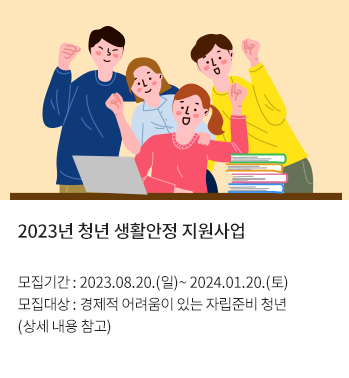
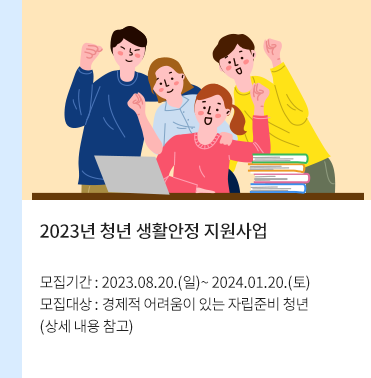
.

diff --git a/html/wz/wz230926.html b/html/wz/wz230926.html
@@ -82,7 +82,7 @@
                     </tbody>
                   </table>
                   <!-- 메인 컨텐츠 -->
-                  <table align="center" border="0" cellpadding="0" cellspacing="0" width="800">
+                  <table align="center" border="0" cellpadding="0" cellspacing="0" width="800" style="max-width: 800px;width: 100%">
                     <tbody>
                       <tr>
                         <td>
@@ -91,8 +91,8 @@
                       </tr>
                       <tr>
                         <td>
-                          <a href="https://www.jobaba.net/eventInfo/eventRLInfo.do" target="_blank" style="text-decoration: none;">
-                            <img src="https://cdn.jsdelivr.net/gh/chaebonggi/jobaba2023/html/wz/images/wz285/wz_285_11.jpg" alt="잡아바 추석 행운 룰렛" width="800" height="712" style="display: block;">
+                          <a href="https://www.jobaba.net/sprtPlcy/info/view2020.do?seq=10272" target="_blank" style="text-decoration: none;">
+                            <img src="https://aldo814.github.io/jobaba/html/wz/images/230926/img01.png" alt="경기청년 역량강화 기회 지원 사업" width="800" height="712" style="display: block;width: 100%">
                           </a>
                         </td>
                       </tr>
@@ -103,7 +103,7 @@
                     <tbody>
                       <tr>
                         <td>
-                          <img src="https://cdn.jsdelivr.net/gh/chaebonggi/jobaba2023/html/wz/images/wz277/wz_277_03.png" alt="weekly hot!" width="800" height="50" style="display: block;">
+                          <img src="https://cdn.jsdelivr.net/gh/chaebonggi/jobaba2023/html/wz/images/wz277/wz_277_03.png" alt="weekly hot!" width="800" height="50" style="display: block;width: 100%;">
                         </td>
                       </tr>
                       <tr>
@@ -116,13 +116,13 @@
                                       <tbody>
                                         <tr>
                                           <td>
-                                            <a href="https://www.jobaba.net/sprtPlcy/info/view2020.do?seq=11415" target="_blank">
-                                              <img src="https://cdn.jsdelivr.net/gh/chaebonggi/jobaba2023/html/wz/images/wz285/wz_285_02.jpg" alt="「2023년 경기도형 대학생 취업브리지」 현장실습 참여자 모집 공고" width="360" height="378" style="display: block;">
+                                            <a href="https://www.jobaba.net/sprtPlcy/info/view2020.do?seq=11464" target="_blank">
+                                              <img src="https://aldo814.github.io/jobaba/html/wz/images/230926/img02.png" alt="2023년 경기북부 여성취업박람회 " width="360" height="378" style="display: block;">
                                             </a>
                                           </td>
                                           <td>
-                                            <a href="https://apply.jobaba.net/bsns/bsnsDetailView.do?bsnsSeq=2595" target="_blank">
-                                              <img src="https://cdn.jsdelivr.net/gh/chaebonggi/jobaba2023/html/wz/images/wz285/wz_285_03.jpg" alt="「잡아바 러닝센터 인증챌린지 3기 모집" width="360" height="378" style="display: block;">
+                                            <a href="https://www.jobaba.net/sprtPlcy/info/view2020.do?seq=11205" target="_blank">
+                                              <img src="https://aldo814.github.io/jobaba/html/wz/images/230926/img03.png" alt="2023년 청년 생활안정 지원사업" width="360" height="378" style="display: block;">
                                             </a>
                                           </td>
                                         </tr>
@@ -139,13 +139,13 @@
                                     <tbody>
                                       <tr>
                                         <td>
-                                          <a href="https://www.jobaba.net/sprtPlcy/info/view2020.do?seq=11408" target="_blank">
-                                            <img src="https://cdn.jsdelivr.net/gh/chaebonggi/jobaba2023/html/wz/images/wz285/wz_285_04.jpg" alt="2023년 여성전문기술교육 데이터라벨러 전문가 양성과정 교육생 모집" width="360" height="378" style="display: block;">
+                                          <a href="https://www.jobaba.net/edutrn/dtl2020.do?seq=243625" target="_blank">
+                                            <img src="https://aldo814.github.io/jobaba/html/wz/images/230926/img04.png" alt="경기 XR 아카데미 특화과정 교육생 모집" width="360" height="378" style="display: block;">
                                           </a>
                                         </td>
                                         <td>
-                                          <a href="https://www.jobaba.net/sprtPlcy/info/view2020.do?seq=11432" target="_blank">
-                                            <img src="https://cdn.jsdelivr.net/gh/chaebonggi/jobaba2023/html/wz/images/wz285/wz_285_05.jpg" alt="2023년 경기청년 해외 취·창업 기회 확충사업" width="360" height="378" style="display: block;">
+                                          <a href="https://www.jobaba.net/evtIfo/dtl2020.do?seq=44852&sn=1" target="_blank">
+                                            <img src="https://aldo814.github.io/jobaba/html/wz/images/230926/img05.png" alt="잡JOB콕! 청년 일자리 페스티벌" width="360" height="378" style="display: block;">
                                           </a>
                                         </td>
                                       </tr>
@@ -165,15 +165,15 @@
                     <tbody>
                       <tr>
                         <td>
-                          <a href="https://www.jobaba.net/interview/mainList.do" target="_blank" style="text-decoration: none;">
-                            <img src="https://cdn.jsdelivr.net/gh/chaebonggi/jobaba2023/html/wz/images/wz285/wz_285_06.jpg" alt="잡아바 AI 역량검사" width="800" height="250" style="display: block;">                                
+                          <a href="https://www.jobaba.net/thema/themeInfo.do" target="_blank" style="text-decoration: none;">
+                            <img src="https://aldo814.github.io/jobaba/html/wz/images/230926/img06.png" alt="취업준비의 시작! 잡아바와 함께 하세요!" width="800" height="250" style="display: block;">                                
                           </a>
                         </td>
                       </tr>
                       <tr>
                         <td>
                           <a href="https://www.jobaba.net/thema/themeInfo.do?currentPageNo=1&seq=114" target="_blank" style="text-decoration: none;">
-                            <img src="https://cdn.jsdelivr.net/gh/chaebonggi/jobaba2023/html/wz/images/wz283/wz_283_07.jpg" alt="빠른 취업 성공을  원한다면? 빠르고 정확한 채팅상담" width="800" height="163" style="display: block;">                                
+                            <img src="https://aldo814.github.io/jobaba/html/wz/images/230926/img07.png" alt="새로워진 잡아바 상담톡으로 취업상담 시작하세요!" width="800" height="163" style="display: block;">                                
                           </a>
                         </td>
                       </tr>
@@ -191,29 +191,29 @@
                             <tbody>                             
                               <tr>
                                 <td align="center">
-                                  <a href="https://www.jobaba.net/pblcEmpmn/publicJobDtl.do?seq=47176&seStl=PJ" target="_blank" style="text-decoration: none;">      
-                                    <img src="https://cdn.jsdelivr.net/gh/chaebonggi/jobaba2023/html/wz/images/wz285/wz_285_07.jpg" alt="한국전력공사 기간제 근로자 채용공고 [경기북부본부 양평지사]" width="740" height="110" style="vertical-align: top;">
+                                  <a href="https://apply.jobaba.net/bsns/bsnsDetailView.do?bsnsSeq=2613" target="_blank" style="text-decoration: none;">      
+                                    <img src="https://aldo814.github.io/jobaba/html/wz/images/230926/img08.png" alt="안산소방서 대체 기간제근로자(조리사) 채용 공고" width="740" height="110" style="vertical-align: top;">
                                   </a>
                                 </td>
                               </tr>
                               <tr>
                                 <td align="center">
-                                  <a href="https://www.jobaba.net/pblcEmpmn/publicJobDtl.do?seq=47240&seStl=PJ" target="_blank" style="text-decoration: none;">      
-                                    <img src="https://cdn.jsdelivr.net/gh/chaebonggi/jobaba2023/html/wz/images/wz285/wz_285_08.jpg" alt="한국가스기술공사 서울지사 임시 기간제계약직 채용 공고" width="740" height="110" style="vertical-align: top;">
+                                  <a href="https://www.jobaba.net/pblcEmpmn/publicJobDtl.do?seq=47567&seStl=PJ" target="_blank" style="text-decoration: none;">      
+                                    <img src="https://aldo814.github.io/jobaba/html/wz/images/230926/img09.png" alt="2023년 한국산업기술진흥원 체험형 인턴 공개채용 공고" width="740" height="110" style="vertical-align: top;">
                                   </a>
                                 </td>
                               </tr>
                               <tr>
                                 <td align="center">
-                                  <a href="https://www.jobaba.net/pblcEmpmn/publicJobDtl.do?seq=47379&seStl=PJ" target="_blank" style="text-decoration: none;">      
-                                    <img src="https://cdn.jsdelivr.net/gh/chaebonggi/jobaba2023/html/wz/images/wz285/wz_285_09.jpg" alt="한국공공조직은행 2023년 제3차 직원 채용 공고" width="740" height="111" style="vertical-align: top;">
+                                  <a href="https://www.jobaba.net/pblcEmpmn/publicJobDtl.do?seq=47683&seStl=PJ" target="_blank" style="text-decoration: none;">      
+                                    <img src="https://aldo814.github.io/jobaba/html/wz/images/230926/img10.png" alt="2023년 국민체육진흥공단 일반직 7급 채용공고" width="740" height="111" style="vertical-align: top;margin-top: -1px">
                                   </a>
                                 </td>
                               </tr>
                               <tr>
                                 <td align="center">
-                                  <a href="https://www.jobaba.net/pblcEmpmn/publicJobDtl.do?seq=47235&seStl=PJ" target="_blank" style="text-decoration: none;">      
-                                    <img src="https://cdn.jsdelivr.net/gh/chaebonggi/jobaba2023/html/wz/images/wz285/wz_285_10.jpg" alt="한국투자공사 2023년 청년인턴 채용" width="740" height="109" style="vertical-align: top;">
+                                  <a href="https://www.jobaba.net/pblcEmpmn/publicJobDtl.do?seq=47813&seStl=PJ" target="_blank" style="text-decoration: none;">      
+                                    <img src="https://aldo814.github.io/jobaba/html/wz/images/230926/img11.png" alt="2023년 제5회 경기환경에너지진흥원 기간제근로자 채용 공고" width="740" height="109" style="vertical-align: top;">
                                   </a>
                                 </td>
                               </tr>
